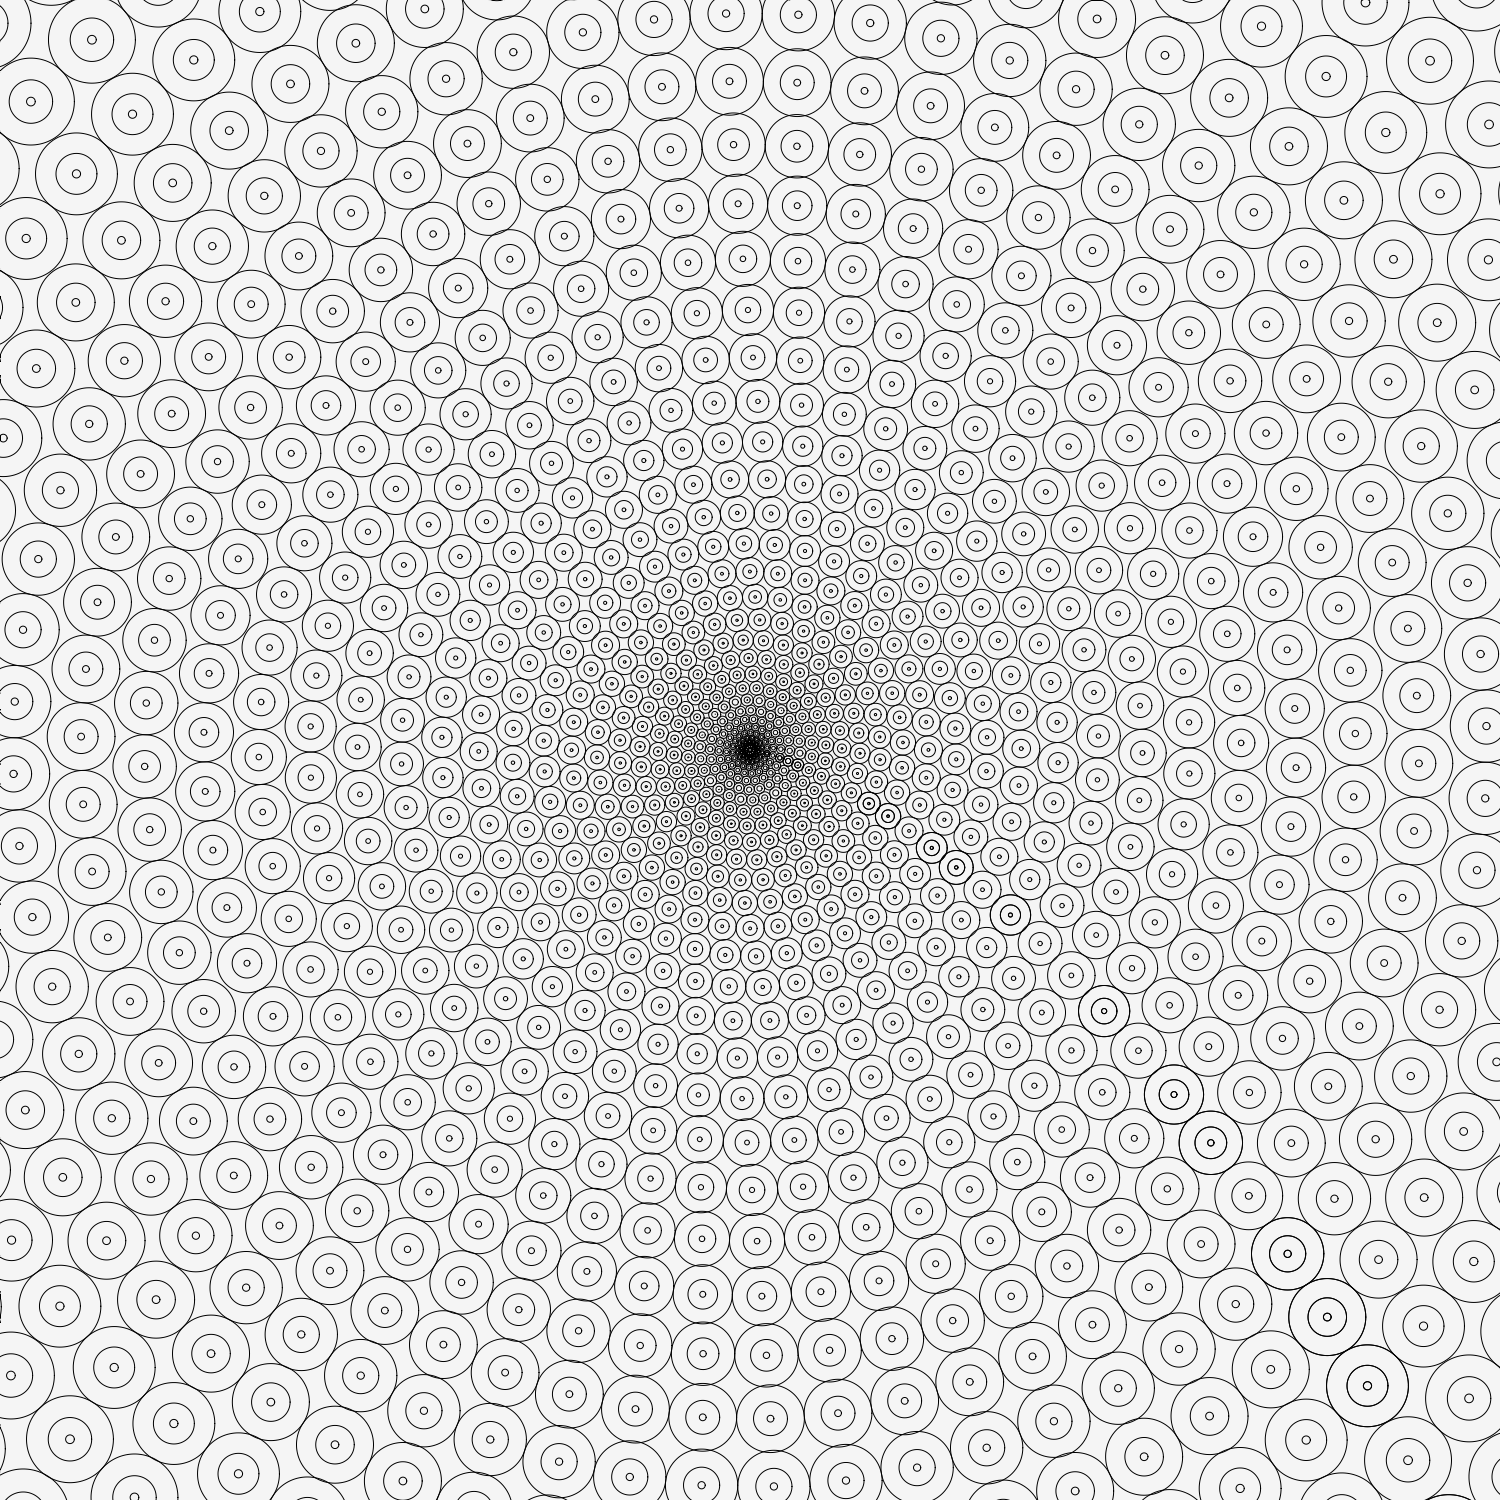
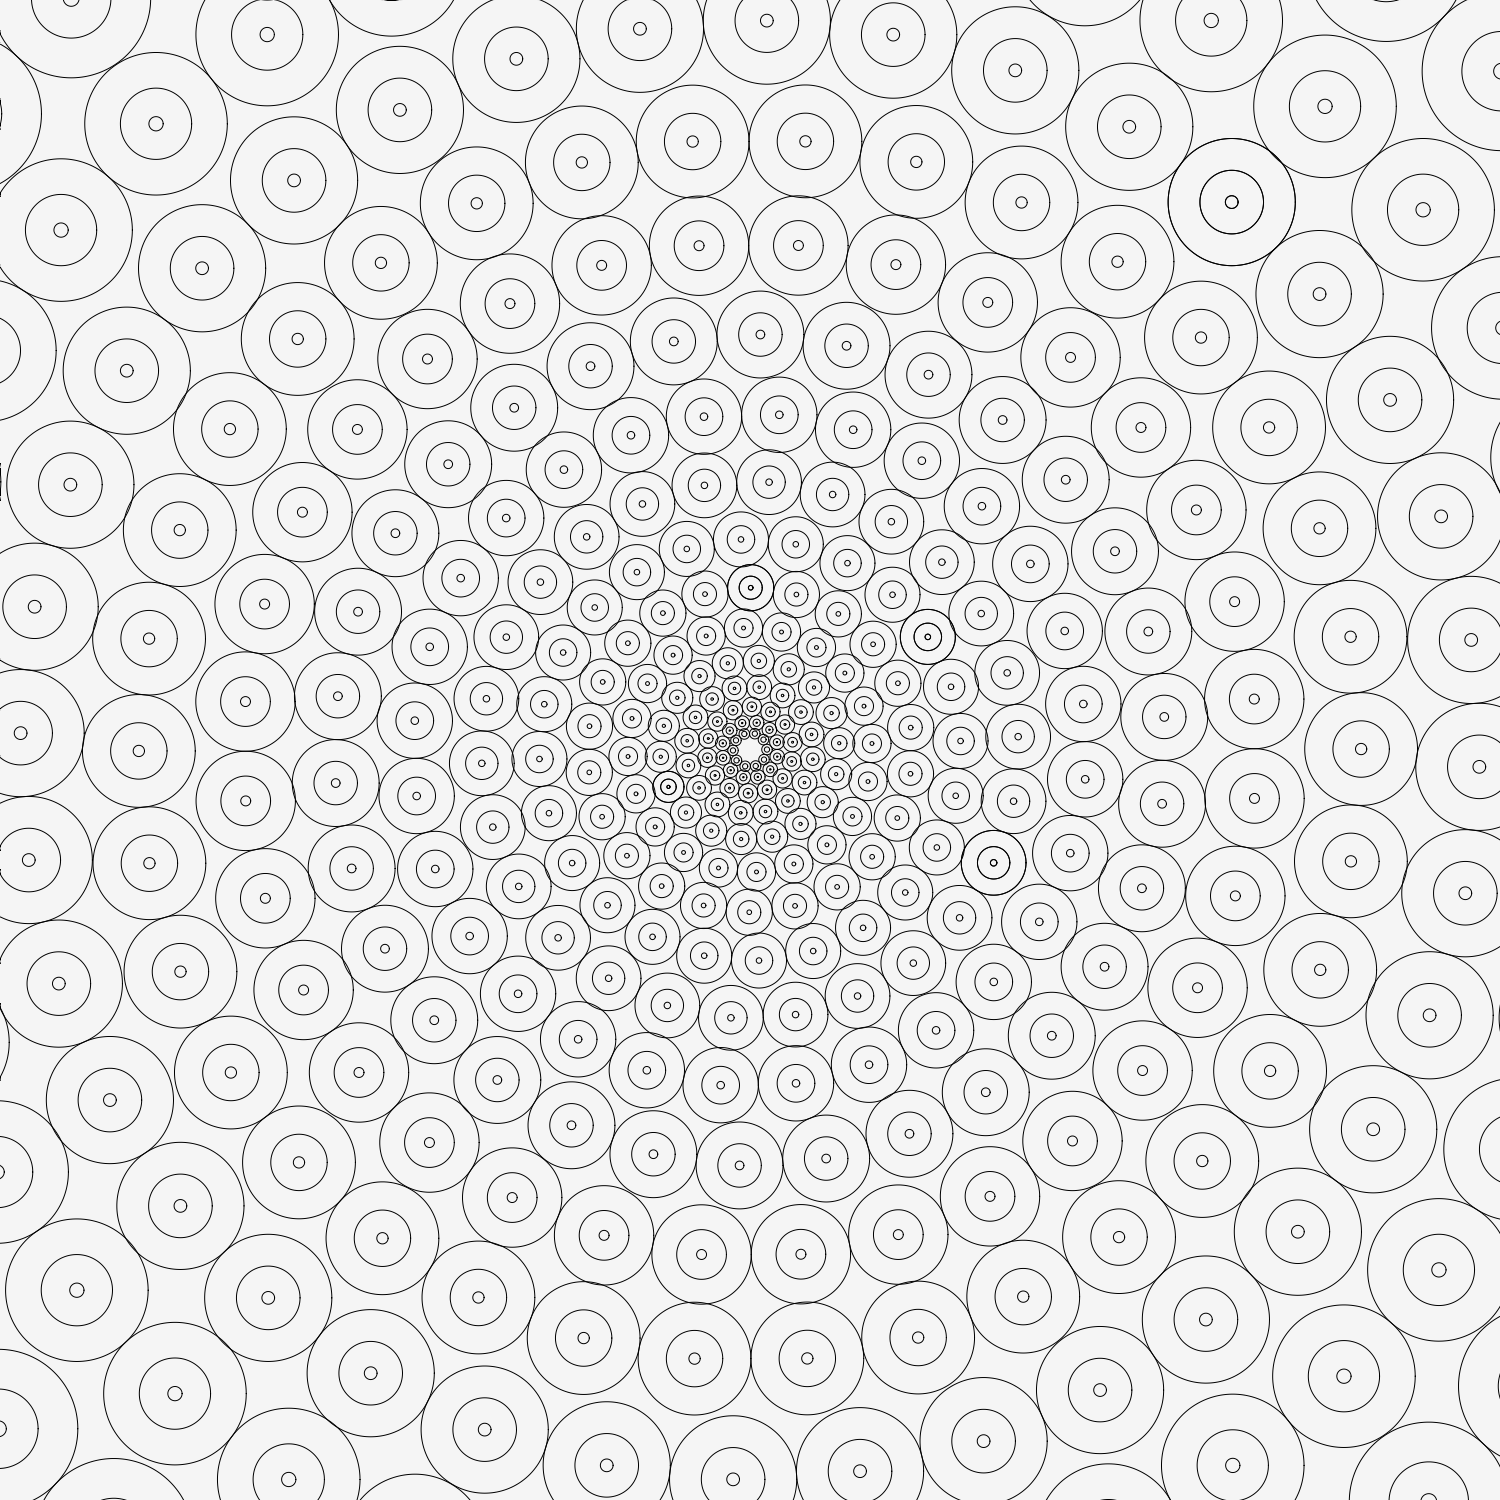
Adjust parameters

Changed region(s): [[0.0, 0.0, 1.0, 1.0]]

diff --git a/3-3-19/3-3-19.go b/3-3-19/3-3-19.go
@@ -20,7 +20,7 @@ func mapPoint(x1, x2, y1, y2, xt float64) float64 {
 func drawCircleRing(dc *gg.Context, r, n float64) float64 {
 	da := 2 * math.Pi / n
 	individR := r * math.Sin(da/2)
-	offset := n / 85
+	offset := n / 2
 	for a := 0.0; a < 2*math.Pi; a += da {
 		x := r * math.Cos(a+offset)
 		y := r * math.Sin(a+offset)
@@ -46,9 +46,9 @@ func main() {
 	dc.SetLineWidth(1)
 	dc.Translate(width/2, height/2)
 
-	r := 1.
-	for i := 3.; i < 50; i++ {
-		r += 2.002 * drawCircleRing(dc, r, 2*i)
+	r := 17.
+	for i := 5.; i < 50; i++ {
+		r += 2.1 * drawCircleRing(dc, r, 2*i)
 	}
 
 	dc.Stroke()
